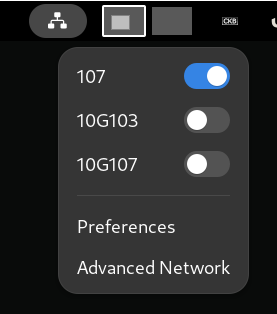
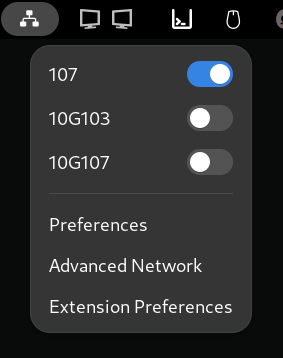
Done ?

Changed region(s): [[0.0, 0.0, 1.0, 0.9459], [0.2888, 0.2006, 0.3755, 0.2866]]

diff --git a/extension.js b/extension.js
@@ -75,6 +75,13 @@ const Indicator = GObject.registerClass(
                 this._openAdvancedNetwork();
             });
             this.menu.addMenuItem(advancedItem);
+
+            // Add extension preferences option
+            let extensionPrefsItem = new PopupMenu.PopupMenuItem(_('Extension Preferences'));
+            extensionPrefsItem.connect('activate', () => {
+                this._openExtensionPreferences();
+            });
+            this.menu.addMenuItem(extensionPrefsItem);
         }
         
         _addSwitch(vlan) {
@@ -117,6 +124,14 @@ const Indicator = GObject.registerClass(
         _openAdvancedNetwork() {
             let proc = new Gio.Subprocess({
                 argv: ['nm-connection-editor'],
+                flags: Gio.SubprocessFlags.NONE,
+            });
+            proc.init(null);
+        }
+
+        _openExtensionPreferences() {
+            let proc = new Gio.Subprocess({
+                argv: ['gnome-extensions', 'prefs', 'updated-vlan-switcher@jrvolt.github.io'],
                 flags: Gio.SubprocessFlags.NONE,
             });
             proc.init(null);
@@ -212,6 +227,13 @@ const VlanQuickToggle = GObject.registerClass({
             this._openAdvancedNetwork();
         });
         this._section.addMenuItem(advancedItem);
+
+        // Add extension preferences option
+        let extensionPrefsItem = new PopupMenu.PopupMenuItem(_('Extension Preferences'));
+        extensionPrefsItem.connect('activate', () => {
+            this._openExtensionPreferences();
+        });
+        this._section.addMenuItem(extensionPrefsItem);
     }
 
     _openPreferences() {
@@ -225,6 +247,14 @@ const VlanQuickToggle = GObject.registerClass({
     _openAdvancedNetwork() {
         let proc = new Gio.Subprocess({
             argv: ['nm-connection-editor'],
+            flags: Gio.SubprocessFlags.NONE,
+        });
+        proc.init(null);
+    }
+
+    _openExtensionPreferences() {
+        let proc = new Gio.Subprocess({
+            argv: ['gnome-extensions', 'prefs', 'updated-vlan-switcher@jrvolt.github.io'],
             flags: Gio.SubprocessFlags.NONE,
         });
         proc.init(null);
@@ -261,93 +291,6 @@ const VlanSystemIndicator = GObject.registerClass({
         super.destroy();
     }
 });
-
-// // QuickSettings submenu for VLAN
-// const VlanQuickSettingsItem = GObject.registerClass(
-//     class VlanQuickSettingsItem extends GObject.Object {
-//         _init(client) {
-//             super._init();
-            
-//             this._client = client;
-            
-//             // Create a simple submenu using PopupMenu - no custom styling
-//             this.container = new PopupMenu.PopupSubMenuMenuItem(_("VLAN"), true);
-//             this.container.icon.icon_name = 'network-wired-symbolic';
-//             this.menu = this.container.menu;
-            
-//             // Add to quickSettings
-//             let quickSettings = Main.panel.statusArea.quickSettings;
-//             if (quickSettings) {
-//                 quickSettings.menu.addMenuItem(this.container);
-//             }
-            
-//             // Listen for connection changes
-//             this._activeConnectionsId = this._client.connect('notify::active-connections', () => {
-//                 this._refresh();
-//             });
-//             this._connectionsId = this._client.connect('notify::connections', () => {
-//                 this._refresh();
-//             });
-//         }
-        
-//         _getVlanConnections() {
-//             let connections = this._client.get_connections() || [];
-//             return connections.filter(c => c.is_type(NM.SETTING_VLAN_SETTING_NAME))
-//                 .sort((a, b) => a.get_id() > b.get_id() ? 1 : -1);
-//         }
-        
-//         _refresh() {
-//             this.menu.removeAll();
-            
-//             let vlans = this._getVlanConnections();
-            
-//             if (vlans.length === 0) {
-//                 let item = new PopupMenu.PopupMenuItem(_("No VLAN found"));
-//                 item.reactive = false;
-//                 this.menu.addMenuItem(item);
-//                 return;
-//             }
-            
-//             vlans.forEach(vlan => {
-//                 this._addSwitch(vlan);
-//             });
-//         }
-        
-//         _addSwitch(vlan) {
-//             // Get active connection state
-//             let activeConnections = this._client.get_active_connections() || [];
-//             let activeVlan = activeConnections.find(ac =>
-//                 ac && ac.connection && ac.connection.get_uuid() === vlan.get_uuid()
-//             );
-//             let isActive = activeVlan !== undefined && 
-//                            activeVlan.get_state() !== NM.ActiveConnectionState.DEACTIVATED;
-            
-//             let item = new PopupMenu.PopupSwitchMenuItem(vlan.get_id(), isActive);
-//             item._vlan = vlan;
-//             item._activeConnection = activeVlan;
-            
-//             item.connect('toggled', () => {
-//                 if (item._activeConnection !== undefined) {
-//                     this._client.deactivate_connection_async(item._activeConnection, null, null);
-//                 } else {
-//                     this._client.activate_connection_async(vlan, null, null, null, null);
-//                 }
-//             });
-            
-//             this.menu.addMenuItem(item);
-//         }
-
-//         destroy() {
-//             if (this._activeConnectionsId) {
-//                 this._client.disconnect(this._activeConnectionsId);
-//             }
-//             if (this._connectionsId) {
-//                 this._client.disconnect(this._connectionsId);
-//             }
-//             super.destroy();
-//         }
-//     }
-// );
 
 export default class VlanSwitcherExtension extends Extension {
     enable() {
